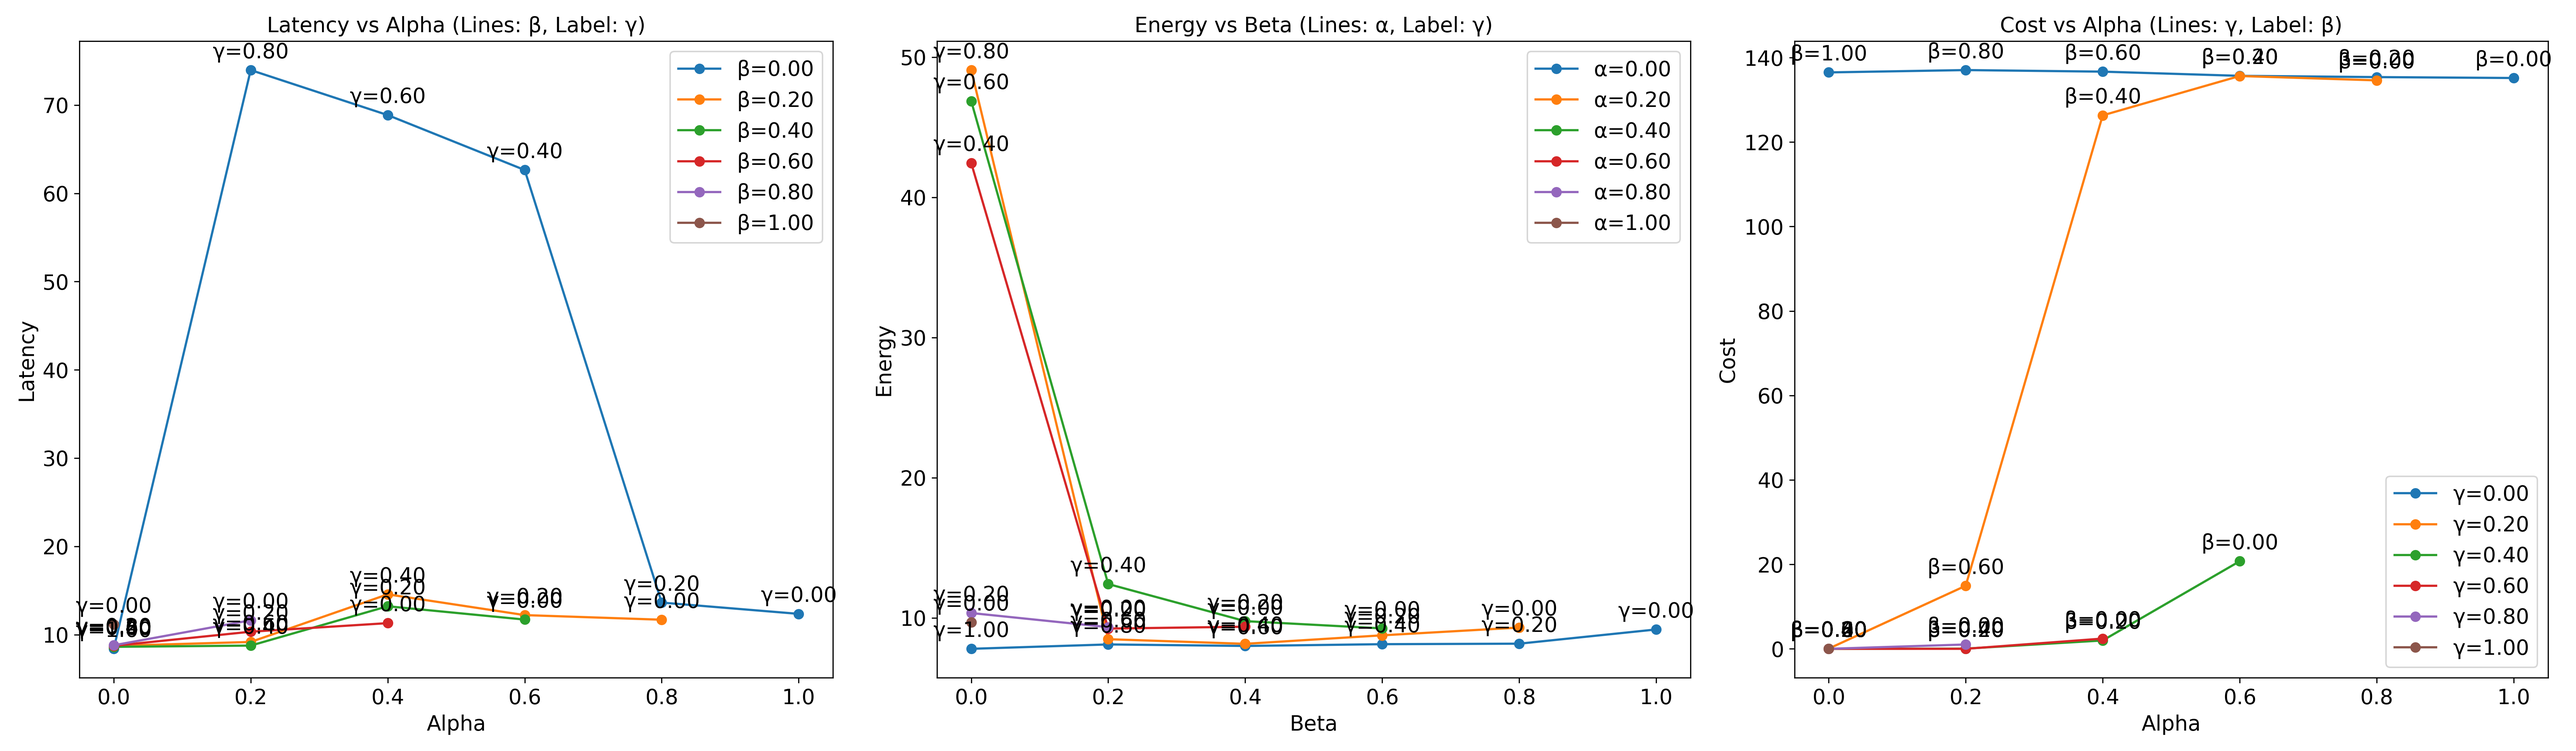
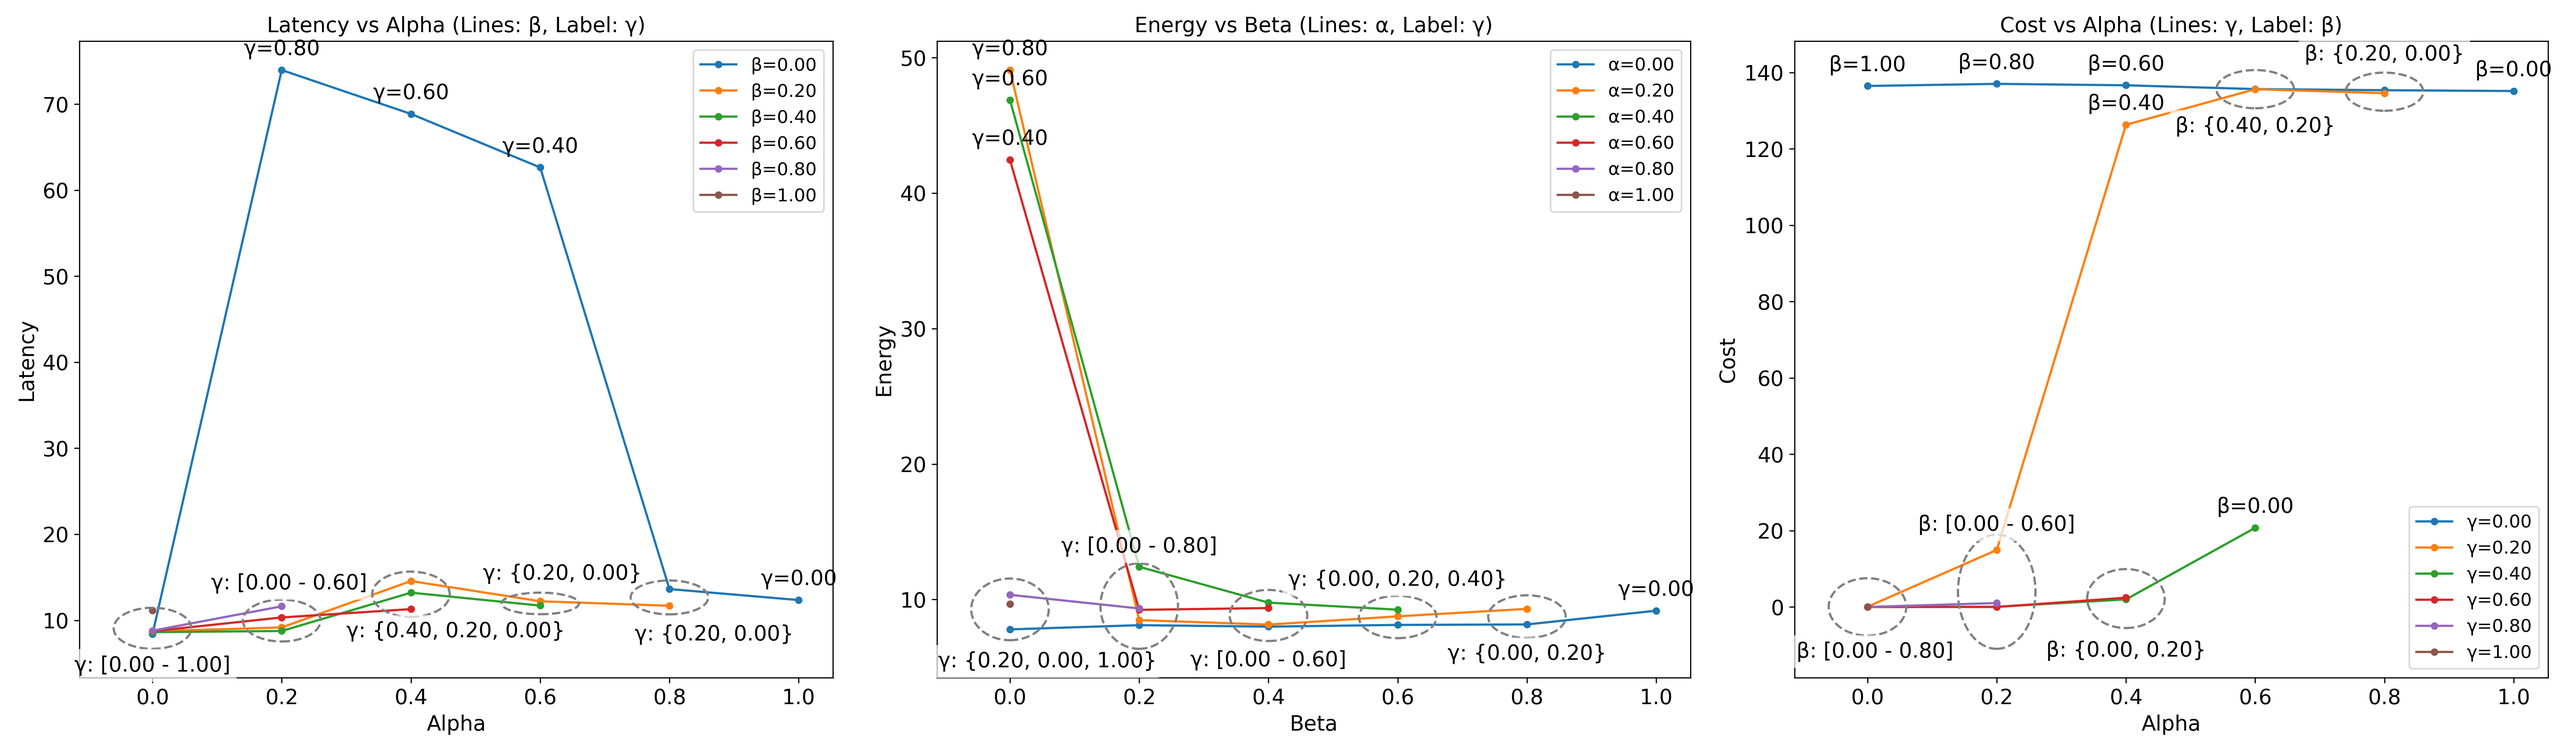
Fancy clustered-based sensitivity plotting

diff --git a/src/sensitivity_plotting_manual.py b/src/sensitivity_plotting_manual.py
@@ -1,0 +1,167 @@
+import pandas as pd
+import matplotlib.pyplot as plt
+from matplotlib.patches import Ellipse
+import os
+
+# --- Configuration Variables for Plotting ---
+ANNOTATION_FONTSIZE = 14
+TITLE_FONTSIZE = 14
+AXIS_LABEL_FONTSIZE = 14
+TICK_LABEL_FONTSIZE = 14
+LEGEND_FONTSIZE = 12
+FIGURE_WIDTH = 24
+FIGURE_HEIGHT = 7
+
+# --- File and Directory Configuration ---
+results_dir = "fresco_sensitivity/"
+apps = ["random"]
+output_dir = "fresco_sensitivity/"
+os.makedirs(output_dir, exist_ok=True)
+
+for app in apps:
+    file_path = os.path.join(results_dir, f"{app}.csv")
+    if not os.path.exists(file_path):
+        print(f"⚠ File not found: {file_path}")
+        continue
+
+    df = pd.read_csv(file_path)
+    df.columns = [
+        "suffix", "alpha", "beta", "gamma", "k",
+        "latency", "energy", "cost", "dec_time",
+        "qos_violation", "score"
+    ]
+
+    betas = sorted(df["beta"].unique())
+    alphas = sorted(df["alpha"].unique())
+    gammas = sorted(df["gamma"].unique())
+
+    # ==================================================================
+    #                  OBJECTIVE FEATURE PLOTS
+    # ==================================================================
+    fig_objectives, axes_objectives = plt.subplots(1, 3, figsize=(FIGURE_WIDTH, FIGURE_HEIGHT))
+    ax0_obj, ax1_obj, ax2_obj = axes_objectives
+
+    # === Plot 1 (Objectives): Latency vs Alpha (Your Finalized Version) ===
+    cluster_alphas_p1 = [0.0, 0.2, 0.4, 0.6, 0.8]
+    latency_threshold_p1 = 25
+    label_positions_p1 = {0.0: (0, -25), 0.2: (5, 25), 0.4: (30, -25), 0.6: (15, 20), 0.8: (30, -25)}
+
+    for beta_fixed in betas:
+        subset = df[df["beta"] == beta_fixed].sort_values("alpha")
+        ax0_obj.plot(subset["alpha"], subset["latency"], label=f"β={beta_fixed:.2f}", marker='o', markersize=4, zorder=2)
+        for _, row in subset.iterrows():
+            if (row['alpha'] in cluster_alphas_p1 and row['latency'] > latency_threshold_p1) or (row['alpha'] not in cluster_alphas_p1):
+                ax0_obj.annotate(f"γ={row['gamma']:.2f}", (row["alpha"], row["latency"]), textcoords="offset points", xytext=(0, 10), ha='center', fontsize=ANNOTATION_FONTSIZE)
+
+    for alpha_val in cluster_alphas_p1:
+        cluster_df = df[(df['alpha'] == alpha_val) & (df['latency'] < latency_threshold_p1)]
+        if not cluster_df.empty:
+            center_x, center_y = cluster_df['alpha'].mean(), cluster_df['latency'].mean()
+            height, width = (cluster_df['latency'].max() - cluster_df['latency'].min()) + 2, 0.12
+            ax0_obj.add_patch(Ellipse(xy=(center_x, center_y), width=width, height=height, edgecolor='gray', fc='None', lw=1.5, linestyle='--', zorder=3))
+            sorted_cluster = cluster_df.sort_values('latency', ascending=False)
+            gamma_values = sorted_cluster['gamma'].tolist()
+            label_text = f"γ: [{min(gamma_values):.2f} - {max(gamma_values):.2f}]" if len(gamma_values) > 3 else f"γ: {{{', '.join([f'{g:.2f}' for g in gamma_values])}}}"
+            ax0_obj.annotate(label_text, (center_x, center_y), xytext=label_positions_p1.get(alpha_val, (0,0)), textcoords='offset points', ha='center', va='center', fontsize=14, bbox=dict(boxstyle="round,pad=0.3", fc="white", ec='None', alpha=0.7))
+
+    ax0_obj.set_title("Latency vs Alpha (Lines: β, Label: γ)", fontsize=TITLE_FONTSIZE)
+    ax0_obj.set_xlabel("Alpha", fontsize=AXIS_LABEL_FONTSIZE)
+    ax0_obj.set_ylabel("Latency", fontsize=AXIS_LABEL_FONTSIZE)
+
+    # === Plot 2 (Objectives): Energy vs Beta (Your Finalized Version) ===
+    cluster_betas_p2 = [0.0, 0.2, 0.4, 0.6, 0.8]
+    energy_threshold_p2 = 15
+    label_positions_p2 = {0.0: (25, -35), 0.2: (0, 40), 0.4: (0, -30), 0.6: (0, 25), 0.8: (0, -25)}
+
+    for alpha_fixed in alphas:
+        subset = df[df["alpha"] == alpha_fixed].sort_values("beta")
+        ax1_obj.plot(subset["beta"], subset["energy"], label=f"α={alpha_fixed:.2f}", marker='o', markersize=4, zorder=2)
+        for _, row in subset.iterrows():
+            if (row['beta'] in cluster_betas_p2 and row['energy'] > energy_threshold_p2) or (row['beta'] not in cluster_betas_p2):
+                ax1_obj.annotate(f"γ={row['gamma']:.2f}", (row["beta"], row["energy"]), textcoords="offset points", xytext=(0, 10), ha='center', fontsize=ANNOTATION_FONTSIZE)
+
+    for beta_val in cluster_betas_p2:
+        cluster_df = df[(df['beta'] == beta_val) & (df['energy'] < energy_threshold_p2)]
+        if not cluster_df.empty:
+            center_x, center_y = cluster_df['beta'].mean(), cluster_df['energy'].mean()
+            height, width = (cluster_df['energy'].max() - cluster_df['energy'].min()) + 2, 0.12
+            ax1_obj.add_patch(Ellipse(xy=(center_x, center_y), width=width, height=height, edgecolor='gray', fc='None', lw=1.5, linestyle='--', zorder=3))
+            sorted_cluster = cluster_df.sort_values('energy', ascending=False)
+            gamma_values = sorted_cluster['gamma'].tolist()
+            label_text = f"γ: [{min(gamma_values):.2f} - {max(gamma_values):.2f}]" if len(gamma_values) > 3 else f"γ: {{{', '.join([f'{g:.2f}' for g in gamma_values])}}}"
+            ax1_obj.annotate(label_text, (center_x, center_y), xytext=label_positions_p2.get(beta_val, (0,0)), textcoords='offset points', ha='center', va='center', fontsize=14, bbox=dict(boxstyle="round,pad=0.3", fc="white", ec='None', alpha=0.7))
+
+    ax1_obj.set_title("Energy vs Beta (Lines: α, Label: γ)", fontsize=TITLE_FONTSIZE)
+    ax1_obj.set_xlabel("Beta", fontsize=AXIS_LABEL_FONTSIZE)
+    ax1_obj.set_ylabel("Energy", fontsize=AXIS_LABEL_FONTSIZE)
+
+    # === Plot 3 (Objectives): Cost vs Alpha (HYBRID LOGIC) ===
+    # 1. Your manual definitions for dense, low-cost clusters
+    dense_cluster_alphas_p3 = [0, 0.2, 0.4]
+    cost_threshold_p3 = 80
+    label_positions_p3 = {0: (5, -30), 0.2: (0, 45), 0.4: (0, -35)}
+    
+    # 2. New explicit definitions for the high-cost, two-point clusters
+    explicit_clusters_p3 = [
+        {'alpha': 0.6, 'gammas': [0.0, 0.2], 'label_pos': (0, -25)},
+        {'alpha': 0.8, 'gammas': [0.0, 0.2], 'label_pos': (0, 25)}
+    ]
+    # Create a lookup set for all points that will be handled by the explicit logic
+    explicit_points_to_skip = set()
+    for c in explicit_clusters_p3:
+        for g in c['gammas']:
+            explicit_points_to_skip.add((c['alpha'], g))
+
+    # --- Plotting loop for Plot 3 ---
+    for gamma_fixed in gammas:
+        subset = df[df["gamma"] == gamma_fixed].sort_values("alpha")
+        ax2_obj.plot(subset["alpha"], subset["cost"], label=f"γ={gamma_fixed:.2f}", marker='o', markersize=4, zorder=2)
+        for _, row in subset.iterrows():
+            # Determine if the point belongs to any defined cluster
+            is_in_dense_cluster = (row['alpha'] in dense_cluster_alphas_p3 and row['cost'] < cost_threshold_p3)
+            is_in_explicit_cluster = (row['alpha'], row['gamma']) in explicit_points_to_skip
+            
+            # Annotate a point ONLY if it's NOT in ANY cluster
+            if not is_in_dense_cluster and not is_in_explicit_cluster:
+                 ax2_obj.annotate(f"β={row['beta']:.2f}", (row["alpha"], row["cost"]), textcoords="offset points", xytext=(0, 10), ha='center', fontsize=ANNOTATION_FONTSIZE)
+
+    # --- Process and draw YOUR DENSE CLUSTERS ---
+    for alpha_val in dense_cluster_alphas_p3:
+        cluster_df = df[(df['alpha'] == alpha_val) & (df['cost'] < cost_threshold_p3)]
+        if not cluster_df.empty:
+            center_x, center_y = cluster_df['alpha'].mean(), cluster_df['cost'].mean()
+            height, width = (cluster_df['cost'].max() - cluster_df['cost'].min()) + 15, 0.12
+            ax2_obj.add_patch(Ellipse(xy=(center_x, center_y), width=width, height=height, edgecolor='gray', fc='None', lw=1.5, linestyle='--', zorder=3))
+            sorted_cluster = cluster_df.sort_values('cost', ascending=False)
+            beta_values = sorted_cluster['beta'].tolist()
+            label_text = f"β: [{min(beta_values):.2f} - {max(beta_values):.2f}]" if len(beta_values) > 3 else f"β: {{{', '.join([f'{b:.2f}' for b in beta_values])}}}"
+            ax2_obj.annotate(label_text, (center_x, center_y), xytext=label_positions_p3.get(alpha_val, (0,0)), textcoords='offset points', ha='center', va='center', fontsize=14, bbox=dict(boxstyle="round,pad=0.3", fc="white", ec='None', alpha=0.7))
+
+    # --- Process and draw the NEW EXPLICIT CLUSTERS ---
+    for cluster_info in explicit_clusters_p3:
+        cluster_df = df[(df['alpha'] == cluster_info['alpha']) & (df['gamma'].isin(cluster_info['gammas']))]
+        if not cluster_df.empty:
+            center_x, center_y = cluster_df['alpha'].mean(), cluster_df['cost'].mean()
+            height = max((cluster_df['cost'].max() - cluster_df['cost'].min()), 5) + 5
+            width = 0.12
+            ax2_obj.add_patch(Ellipse(xy=(center_x, center_y), width=width, height=height, edgecolor='gray', fc='None', lw=1.5, linestyle='--', zorder=3))
+            sorted_cluster = cluster_df.sort_values('cost', ascending=False)
+            beta_values = sorted_cluster['beta'].tolist()
+            label_text = f"β: {{{', '.join([f'{b:.2f}' for b in beta_values])}}}" # Always a set for these
+            ax2_obj.annotate(label_text, (center_x, center_y), xytext=cluster_info['label_pos'], textcoords='offset points', ha='center', va='center', fontsize=14, bbox=dict(boxstyle="round,pad=0.3", fc="white", ec='None', alpha=0.7))
+
+    ax2_obj.set_title("Cost vs Alpha (Lines: γ, Label: β)", fontsize=TITLE_FONTSIZE)
+    ax2_obj.set_xlabel("Alpha", fontsize=AXIS_LABEL_FONTSIZE)
+    ax2_obj.set_ylabel("Cost", fontsize=AXIS_LABEL_FONTSIZE)
+    
+    # --- Finalize Plots ---
+    for ax in axes_objectives:
+        ax.tick_params(axis='both', which='major', labelsize=TICK_LABEL_FONTSIZE)
+        ax.legend(fontsize=LEGEND_FONTSIZE)
+
+    plt.tight_layout()
+    output_filename = f"fresco_objective_sensitivity_{app}.png"
+    output_path = os.path.join(output_dir, output_filename)
+    plt.savefig(output_path, dpi=300)
+    plt.close(fig_objectives)
+    print(f"Objective features plot saved to: {output_path}")
